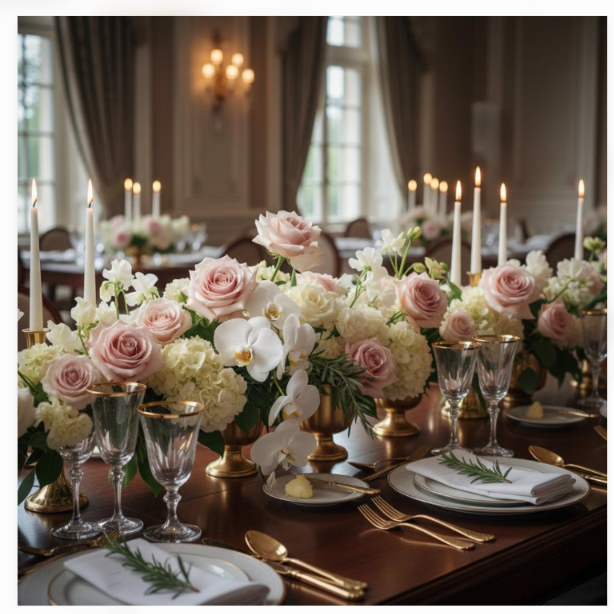
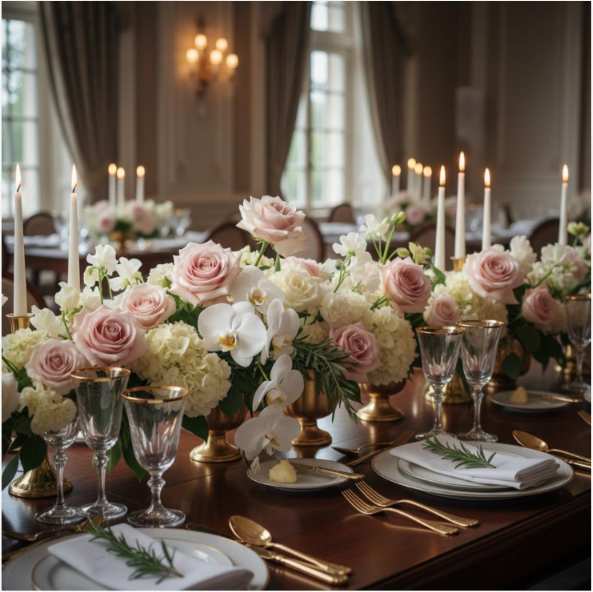
Aarthi & Sanjay – Version 16
Aarthi & Sanjay – Version 16 updated files added

diff --git a/styles.css b/styles.css
@@ -386,3 +386,47 @@ body:has(.invitation-overlay:not(.is-hidden)){overflow:hidden}
 .memory-qr-panel .memory-qr-link:hover{transform:translateY(-2px)}
 .memory-qr-panel .memory-qr-link{transition:transform .2s ease}
 @media(max-width:650px){.memory-qr-image{width:150px;height:150px}}
+
+/* Version 15: one continuous divine blessing + Thirukkural + scratch reveal section */
+.combined-blessing-dates{padding:0 0 72px!important;overflow:hidden;background:linear-gradient(180deg,#fffaf0 0%,#f7efdf 100%)}
+.combined-blessing-dates>img{display:block;width:100%;max-width:none;height:auto;margin:0 auto;object-fit:contain}
+.combined-date-content{padding:58px 18px 0;text-align:center}
+.combined-date-content .scratch-shell{margin-top:30px}
+@media(max-width:680px){
+ .combined-blessing-dates{padding-bottom:48px!important}
+ .combined-date-content{padding:36px 12px 0}
+ .combined-date-content h2{font-size:clamp(37px,10vw,48px)}
+ .combined-date-content .quote{font-size:20px}
+ .combined-date-content .scratch-shell{margin:26px 5px 0;padding:24px 10px 28px}
+}
+
+/* Version 15: keep the original couple photographs sharp and fully visible on phones.
+   A soft blurred fill sits behind the uncropped original image; only the text panel is translucent. */
+.photo-event{position:relative;isolation:isolate;overflow:hidden;min-height:620px;aspect-ratio:4 / 5;background:#342820}
+.photo-event::before{content:"";position:absolute;inset:-18px;z-index:0;background-repeat:no-repeat;background-position:center;background-size:cover;filter:blur(12px);transform:scale(1.06);opacity:.72}
+.reception-photo::before{background-image:url("assets/aarthi-sanjay-painted-moment.jpg")}
+.wedding-photo::before{background-image:url("assets/aarthi-sanjay-traditional-look.jpg")}
+.photo-event-image{position:absolute;inset:0;z-index:1;width:100%;height:100%;object-fit:contain;object-position:center;background:transparent}
+.photo-event-shade{z-index:2;background:linear-gradient(180deg,rgba(22,17,15,.08),rgba(22,17,15,.18) 50%,rgba(22,17,15,.38))}
+.photo-event-copy{z-index:3;width:min(780px,86%);margin:32px auto;padding:38px 30px;background:rgba(39,29,24,.55);backdrop-filter:blur(1.2px);-webkit-backdrop-filter:blur(1.2px)}
+@media(max-width:680px){
+ .photo-event-stack{padding:0 8px;gap:18px}
+ .photo-event{width:100%;max-width:560px;min-height:0;aspect-ratio:4 / 5;margin-inline:auto}
+ .photo-event-image{object-fit:contain}
+ .photo-event-copy{width:calc(100% - 24px);padding:18px 12px;margin:14px auto;background:rgba(39,29,24,.62);backdrop-filter:blur(1px);-webkit-backdrop-filter:blur(1px)}
+ .photo-event-kicker{font-size:7px;letter-spacing:1.1px;line-height:1.55}
+ .photo-event-script{font-size:21px;margin:8px 0 0}
+ .photo-event h3{font-size:clamp(31px,8.2vw,39px);line-height:1.02;margin:6px 0 8px}
+ .event-ornament{font-size:13px;margin:8px 0}
+ .photo-event-date{font-size:17px;line-height:1.25;margin:7px 0 2px}
+ .photo-event-time{font-size:15px;margin:3px 0}
+ .photo-event-note{font-size:13px;line-height:1.4;margin:8px auto 4px}
+ .photo-event-calendar{font-size:11px;padding:8px 13px;margin-top:7px}
+}
+@media(max-width:390px){
+ .photo-event-copy{padding:15px 9px}
+ .photo-event-kicker{font-size:6.5px;letter-spacing:.9px}
+ .photo-event h3{font-size:31px}
+ .photo-event-date{font-size:16px}
+ .photo-event-note{font-size:12px}
+}

diff --git a/index.html b/index.html
@@ -26,7 +26,7 @@
 
   <header class="site-header">
     <a class="monogram" href="#home">A <span>✦</span> S</a>
-    <nav><a href="#dates">Our dates</a><a href="#blessings-gallery">Blessings</a><a href="#love-story">Our story</a><a href="#venue">Venue</a><a href="#memories">Share photos</a></nav>
+    <nav><a href="#dates">Our dates</a><a href="#dates">Blessings</a><a href="#marriage-story">Our story</a><a href="#venue">Venue</a><a href="#memories">Share photos</a></nav>
     <span class="save-date">SAVE THE DATE ↗</span>
   </header>
 
@@ -45,10 +45,9 @@
       <div class="hero-bottom"></div>
     </section>
 
-    <section class="divine-section section ganesha-kural-poster" id="blessings-gallery">
+    <section class="divine-section section ganesha-kural-poster combined-blessing-dates" id="dates">
       <img src="assets/ganesha-thirukkural-blessing.jpg" alt="Lord Ganesha blessing Aarthi and Sanjay, with Thirukkural 45 displayed in two lines: Anbum Aranum Udaithayin Ilvazhkkai; Panbum Payanum Athu.">
-    </section>
-    <section class="intro section" id="dates">
+      <div class="combined-date-content">
       <p class="kicker">A DATE WRITTEN IN THE STARS</p>
       <h2>Discover our<br><em>special days.</em></h2>
       <p class="quote">“Two hearts, two stories, and a lifetime waiting to unfold.”</p>
@@ -76,6 +75,7 @@
         <button class="reveal-link" id="reveal-dates" type="button">Or tap to reveal both dates</button>
       </div>
       <a class="discover-link" href="#celebrations">Discover the celebration ↓</a>
+      </div>
     </section>
 
     <section class="celebrations section" id="celebrations">
@@ -83,6 +83,7 @@
       <h2>Two beautiful days,<br><em>one precious celebration.</em></h2>
       <div class="photo-event-stack">
         <article class="photo-event reception-photo">
+          <img class="photo-event-image" src="assets/aarthi-sanjay-painted-moment.jpg" alt="Aarthi and Sanjay together at the reception">
           <div class="photo-event-shade"></div>
           <div class="photo-event-copy">
             <p class="photo-event-kicker">AN EVENING OF JOY & CELEBRATION</p>
@@ -96,6 +97,7 @@
           </div>
         </article>
         <article class="photo-event wedding-photo">
+          <img class="photo-event-image" src="assets/aarthi-sanjay-traditional-look.jpg" alt="Aarthi and Sanjay in traditional wedding attire">
           <div class="photo-event-shade"></div>
           <div class="photo-event-copy">
             <p class="photo-event-kicker">WITH THE BLESSINGS OF OUR FAMILIES</p>
@@ -128,8 +130,8 @@
       <p class="calendar-note">Choose each event to save both dates to Google Calendar, or download the calendar file for Apple Calendar.</p>
     </section>
 
-    <section class="story section" id="love-story">
-      <p class="kicker">A PROMISE FOR TOMORROW</p><h2>Our love <em>story.</em></h2>
+    <section class="story section" id="marriage-story">
+      <p class="kicker">A PROMISE FOR TOMORROW</p><h2>Our Marriage <em>Story.</em></h2>
       <p class="quote">“Some stories become beautiful because two hearts choose to walk together.”</p>
       <div class="story-timeline">
         <article class="story-step"><span>01</span><div><h3>The first hello</h3><p>Two paths crossed, and a new chapter quietly began.</p></div></article>
